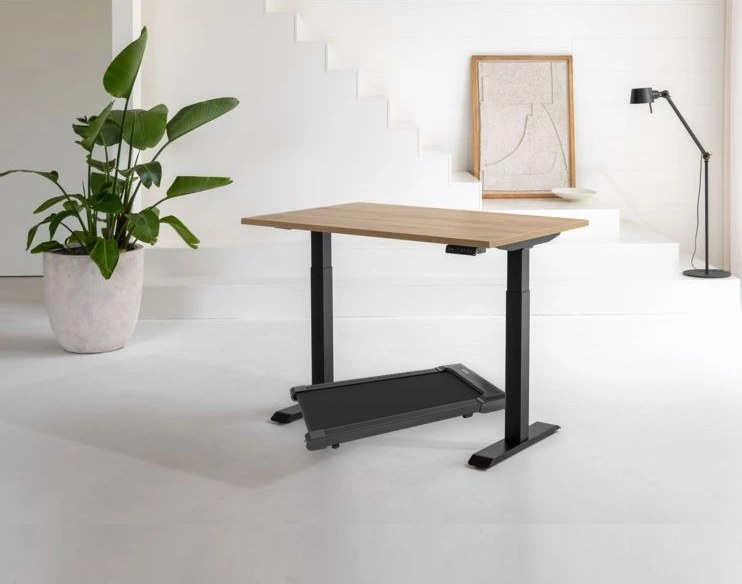
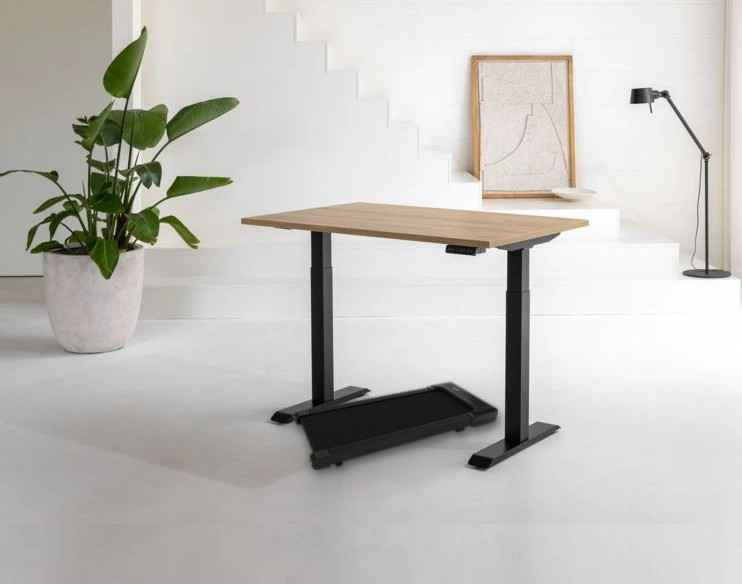
Bureau actif: realistic treadmill placement and accessories section
- Hero composite rebuilt from AOKE's low-angle treadmill render,
  centred between the desk feet and parallel to them, tone-matched
  with contact shadow, grain and front-leg occlusion
- New accessories section with the 6 accessories that matter for this
  bundle (monitor arms, cable spine, cable tray, clamp power socket,
  anti-fatigue mat) and an optimised kit at -15%
- Shop add-ons reuse the same accessories

Claude-Session: https://claude.ai/code/session_01T23BmVwE7jVcfghoTFQZB2

Changed region(s): [[0.372, 0.6164, 0.6819, 0.8322]]

diff --git a/bureau-actif/index.html b/bureau-actif/index.html
@@ -113,6 +113,41 @@ nav .wrap{display:flex;align-items:center;justify-content:space-between;height:6
 .context figcaption{position:absolute;left:14px;bottom:14px;background:rgba(255,255,255,.92);padding:6px 12px;border-radius:999px;font-size:.82rem;font-weight:600}
 @media (max-width:900px){.positions__inner{grid-template-columns:1fr}.context__grid{grid-template-columns:1fr}}
 
+/* Accessoires */
+.acc-sec{background:linear-gradient(180deg,var(--bg),#efe9df)}
+.acc-head{display:flex;justify-content:space-between;align-items:flex-end;gap:24px;flex-wrap:wrap}
+.acc-head .lead{max-width:560px}
+.acc-filters{display:flex;gap:8px;flex-wrap:wrap}
+.acc-filters button{padding:9px 16px;border-radius:999px;border:1.5px solid var(--line);background:var(--surface);font-weight:600;font-size:.86rem;color:var(--muted)}
+.acc-filters button.on{background:var(--ink);border-color:var(--ink);color:#fff}
+.acc-kit{display:grid;grid-template-columns:1.2fr 1fr;gap:24px;align-items:center;background:var(--green);color:#fff;border-radius:24px;padding:26px 28px;margin:32px 0 22px;overflow:hidden;position:relative}
+.acc-kit h3{font-family:Fraunces,serif;font-size:1.6rem;margin:6px 0 8px}
+.acc-kit p{color:#cfe0d6;font-size:.95rem}
+.acc-kit__tag{display:inline-block;background:var(--gold);color:var(--ink);font-weight:700;font-size:.75rem;padding:3px 10px;border-radius:999px}
+.acc-kit__imgs{display:grid;grid-template-columns:repeat(4,1fr);gap:10px}
+.acc-kit__imgs img{background:#fff;border-radius:14px;aspect-ratio:1;object-fit:contain;padding:6px}
+.acc-kit__buy{display:flex;align-items:center;gap:16px;margin-top:16px;flex-wrap:wrap}
+.acc-kit__buy b{font-size:1.6rem}
+.acc-kit__buy s{color:#a9c2b6}
+.acc-grid{display:grid;grid-template-columns:repeat(3,1fr);gap:16px}
+.acc-card{background:var(--surface);border-radius:20px;overflow:hidden;box-shadow:var(--shadow);display:flex;flex-direction:column;transition:transform .2s}
+.acc-card:hover{transform:translateY(-3px)}
+.acc-card__img{background:#f6f4f0;aspect-ratio:4/3;display:grid;place-items:center;position:relative}
+.acc-card__img img{width:82%;height:82%;object-fit:contain;transition:transform .4s}
+.acc-card:hover .acc-card__img img{transform:scale(1.05)}
+.acc-card__cat{position:absolute;top:10px;left:10px;background:#fff;border-radius:999px;font-size:.7rem;font-weight:700;padding:3px 9px;color:var(--muted)}
+.acc-card__body{padding:16px;display:flex;flex-direction:column;gap:6px;flex:1}
+.acc-card__body h3{font-size:1rem}
+.acc-card__body p{font-size:.85rem;color:var(--muted);flex:1}
+.acc-card__spec{font-size:.75rem;color:var(--green);font-weight:600}
+.acc-card__foot{display:flex;justify-content:space-between;align-items:center;margin-top:6px}
+.acc-card__foot b{font-size:1.1rem}
+.acc-add{background:var(--ink);color:#fff;border-radius:999px;padding:8px 14px;font-size:.82rem;font-weight:600}
+.acc-add.done{background:var(--ok)}
+@media (max-width:1000px){.acc-grid{grid-template-columns:repeat(3,1fr)}.acc-kit{grid-template-columns:1fr}}
+@media (max-width:720px){.acc-grid{grid-template-columns:1fr 1fr}}
+@media (max-width:420px){.acc-card__body{padding:12px}.acc-card__body p{display:none}}
+
 /* Illustration */
 .desk-top,.desk-inner{transition:transform 1.1s cubic-bezier(.6,0,.2,1)}
 .belt{stroke-dasharray:6 10;animation:belt .7s linear infinite paused}
@@ -299,7 +334,7 @@ footer a{margin-right:18px;display:inline-block}footer .wrap > span{max-width:10
 <nav>
   <div class="wrap">
     <a href="#" class="logo">Movéa<span>.</span></a>
-    <div class="links"><a href="#pack">Le pack</a><a href="#outils">Compatibilité</a><a href="#comparatif">Comparatif</a><a href="#fiche">Fiche technique</a><a href="#faq">FAQ</a></div>
+    <div class="links"><a href="#pack">Le pack</a><a href="#accessoires">Accessoires</a><a href="#outils">Compatibilité</a><a href="#comparatif">Comparatif</a><a href="#fiche">Fiche technique</a><a href="#faq">FAQ</a></div>
     <button class="cartbtn" data-open-cart aria-label="Panier">
       <svg width="22" height="22" viewBox="0 0 24 24" fill="none" stroke="currentColor" stroke-width="2"><path d="M6 6h15l-1.5 9h-12z"/><path d="M6 6 5 3H2"/><circle cx="9" cy="20" r="1.5"/><circle cx="18" cy="20" r="1.5"/></svg><i data-count>0</i>
     </button>
@@ -413,13 +448,30 @@ footer a{margin-right:18px;display:inline-block}footer .wrap > span{max-width:10
       <div class="group"><div class="group__label">1. Votre formule</div><div class="offers" data-offers></div></div>
       <div class="group" data-g-size><div class="group__label">2. Taille du plateau <small data-size-name></small></div><div class="seg" data-sizes></div></div>
       <div class="group" data-g-color><div class="group__label">3. Finition <small data-color-name></small></div><div class="seg" data-colors></div></div>
-      <div class="group"><div class="group__label">Accessoires conseillés</div><div class="addons" data-addons></div></div>
+      <div class="group"><div class="group__label">Accessoires conseillés <small><a href="#accessoires" style="text-decoration:underline">Voir tous les accessoires</a></small></div><div class="addons" data-addons></div></div>
 
       <button class="btn btn--cta btn--xl" data-add>Ajouter au panier · <span data-total>--</span></button>
       <p class="eta">📦 Livré entre le <b data-eta>--</b> · 3 colis, suivi inclus</p>
       <div class="pay"><span>VISA</span><span>Mastercard</span><span>Bancontact</span><span>PayPal</span><span>Apple Pay</span><span>Klarna 3×</span></div>
       <div class="mini card"><div>🚚<span>Livraison<br>offerte</span></div><div>↩<span>30 jours<br>d'essai</span></div><div>🛡<span>Garantie<br>5 ans</span></div><div>🔒<span>Paiement<br>sécurisé</span></div></div>
     </div>
+  </div>
+</section>
+
+<!-- ACCESSOIRES -->
+<section class="acc-sec" id="accessoires">
+  <div class="wrap">
+    <div class="acc-head">
+      <div>
+        <p class="eyebrow">Accessoires</p>
+        <h2>Les petits détails qui changent tout</h2>
+        <p class="lead">Un écran qui suit vos changements de hauteur, des câbles qui ne traînent jamais près du tapis : les accessoires pensés pour ce pack.</p>
+      </div>
+    </div>
+
+    <div class="acc-kit" data-acc-kit></div>
+    <div class="acc-grid" data-acc-grid></div>
+    <p class="note">Tous les accessoires sont compatibles avec le bureau du pack. Livrés avec le pack, ou séparément.</p>
   </div>
 </section>
 
@@ -592,9 +644,20 @@ const CONFIG = {
   ],
   addons: [
     { id: 'mat', name: 'Tapis anti-fatigue', sub: 'Pour les moments debout', price: 39 },
+    { id: 'arm1', name: 'Bras d\'écran simple', sub: 'Écran à hauteur des yeux, debout comme assis', price: 79 },
     { id: 'cable', name: 'Goulotte passe-câbles inclinable', sub: 'Des câbles qui suivent le bureau', price: 29 },
-    { id: 'castors', name: 'Roulettes verrouillables (×4)', sub: 'Déplacez le bureau d\'une pièce à l\'autre', price: 35 },
   ],
+  // Accessoires (photos AOKE) — prix de vente TTC à ajuster selon la grille fournisseur
+  accessoryCats: { ecran: 'Écran', cables: 'Câbles & énergie', confort: 'Confort' },
+  accessories: [
+    { id: 'arm1', cat: 'ecran', name: 'Bras d\'écran simple', img: 'img/acc/bras-ecran-simple.webp', text: 'L\'écran suit le bureau et reste à hauteur des yeux, assis, debout ou en marchant.', spec: 'Écrans de 2 à 9 kg · course 23 cm', price: 79 },
+    { id: 'arm2', cat: 'ecran', name: 'Bras double écran', img: 'img/acc/bras-ecran-double.webp', text: 'Deux écrans alignés à la bonne hauteur, réglables indépendamment.', spec: '2 écrans de 2 à 9 kg', price: 129 },
+    { id: 'tube', cat: 'cables', name: 'Gaine passe-câbles', img: 'img/acc/gaine-cables.webp', text: 'Indispensable sur un bureau réglable : les câbles suivent quand il monte, sans se tendre ni traîner sur le tapis.', spec: 'Articulée, s\'allonge avec le bureau', price: 19 },
+    { id: 'tray', cat: 'cables', name: 'Goulotte inclinable', img: 'img/acc/goulotte-inclinable.webp', text: 'Cache multiprise et chargeurs sous le plateau. Plus aucun câble au sol près du tapis.', spec: 'Se visse sous le plateau', price: 29 },
+    { id: 'socket', cat: 'cables', name: 'Bloc prises à pince', img: 'img/acc/prise-pince.webp', text: 'Prises et USB au bord du bureau, à portée de main même en marchant.', spec: '2 prises EU + USB-A + USB-C · garantie 5 ans', price: 49 },
+    { id: 'mat', cat: 'confort', name: 'Tapis anti-fatigue', img: 'img/acc/tapis-anti-fatigue-thumb.webp', text: 'Pour les moments debout quand le tapis de marche est à l\'arrêt.', spec: 'Mousse ergonomique, bords biseautés', price: 39 },
+  ],
+  accessoryKit: { name: 'Kit poste optimisé', items: ['arm1', 'tube', 'tray', 'socket'], discount: 0.15 },
   deliveryDays: [4, 8],
   checkoutUrl: '',
   tabs: [
@@ -804,10 +867,39 @@ function initCart() {
   renderCart();
 }
 
+/* ---------- Accessoires ---------- */
+function initAccessories() {
+  const A = CONFIG.accessories, byId = (id) => A.find(a => a.id === id);
+  const add = (items, label) => {
+    items.forEach(a => state.cart.push({ name: a.name, detail: label || 'Accessoire', price: a.price }));
+    save(); toast(items.length > 1 ? `${label} ajouté au panier` : `${items[0].name} ajouté au panier`);
+  };
+  const grid = () => {
+    $('[data-acc-grid]').innerHTML = A.map(a => `
+      <article class="acc-card">
+        <div class="acc-card__img"><span class="acc-card__cat">${CONFIG.accessoryCats[a.cat]}</span><img src="${a.img}" alt="${a.name}" loading="lazy"></div>
+        <div class="acc-card__body"><h3>${a.name}</h3><p>${a.text}</p><span class="acc-card__spec">${a.spec}</span>
+          <div class="acc-card__foot"><b>${eur(a.price)}</b><button class="acc-add" data-acc-add="${a.id}">+ Ajouter</button></div></div>
+      </article>`).join('');
+    $$('[data-acc-add]').forEach(b => b.onclick = () => { add([byId(b.dataset.accAdd)]); b.textContent = '✓ Ajouté'; b.classList.add('done'); setTimeout(() => { b.textContent = '+ Ajouter'; b.classList.remove('done'); }, 1800); });
+  };
+  const K = CONFIG.accessoryKit, kitItems = K.items.map(byId), full = kitItems.reduce((s, a) => s + a.price, 0), kitPrice = Math.round(full * (1 - K.discount));
+  $('[data-acc-kit]').innerHTML = `
+    <div><span class="acc-kit__tag">−${Math.round(K.discount * 100)} % en kit</span><h3>${K.name}</h3>
+      <p>${kitItems.map(a => a.name).join(' · ')}. Un écran à la bonne hauteur et zéro câble qui traîne autour du tapis.</p>
+      <div class="acc-kit__buy"><b>${eur(kitPrice)}</b><s>${eur(full)}</s><button class="btn btn--cta" data-kit-add>Ajouter le kit</button></div></div>
+    <div class="acc-kit__imgs">${kitItems.map(a => `<img src="${a.img}" alt="${a.name}" loading="lazy">`).join('')}</div>`;
+  $('[data-kit-add]').onclick = () => {
+    state.cart.push({ name: K.name, detail: kitItems.map(a => a.name).join(' · '), price: kitPrice });
+    save(); openCart();
+  };
+  grid();
+}
+
 /* ---------- Démarrage ---------- */
 const posScene = $('[data-scene="positions"]');
 const applyPos = setupScene(posScene);
-paint(); renderShop(); renderGlobalPrices(); initTools(); initTabs(); initCart();
+paint(); renderShop(); renderGlobalPrices(); initTools(); initTabs(); initCart(); initAccessories();
 // La section « positions » enchaîne les 3 hauteurs tant que le visiteur n'a pas cliqué
 const seq = ['assis', 'debout', 'marche']; let si = 2;
 setInterval(() => { if (!posScene._user && !document.hidden) { si = (si + 1) % 3; applyPos(seq[si]); } }, 3200);
